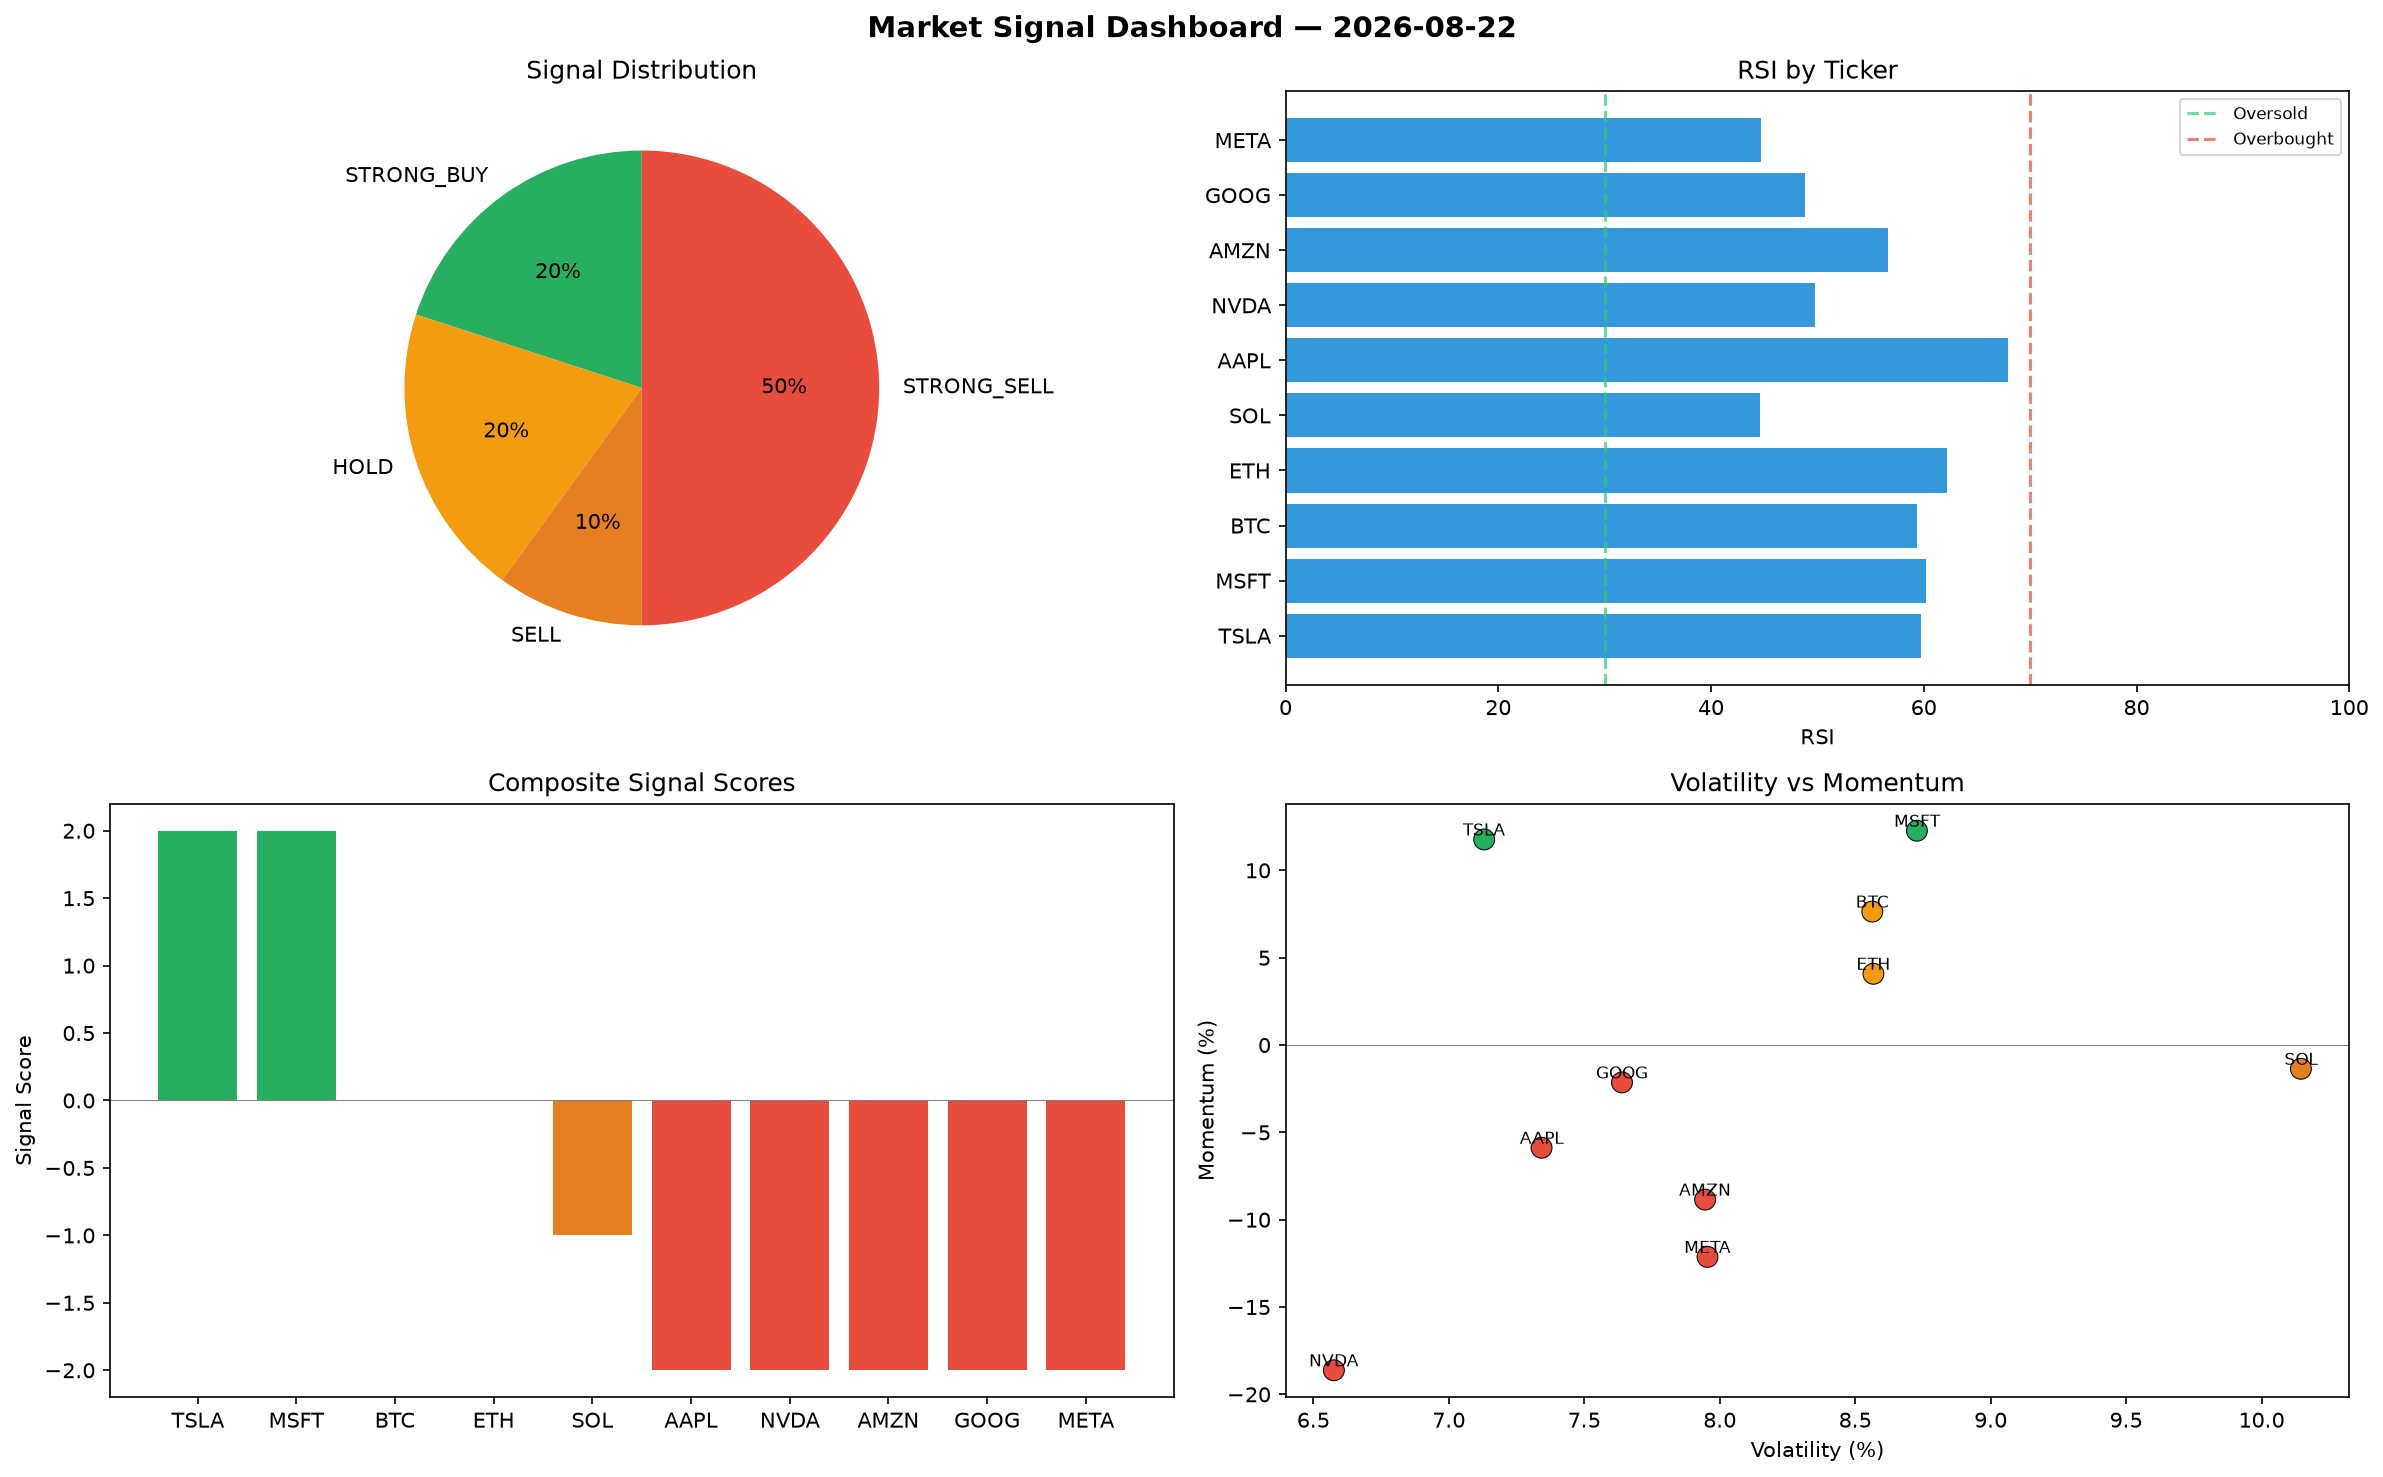
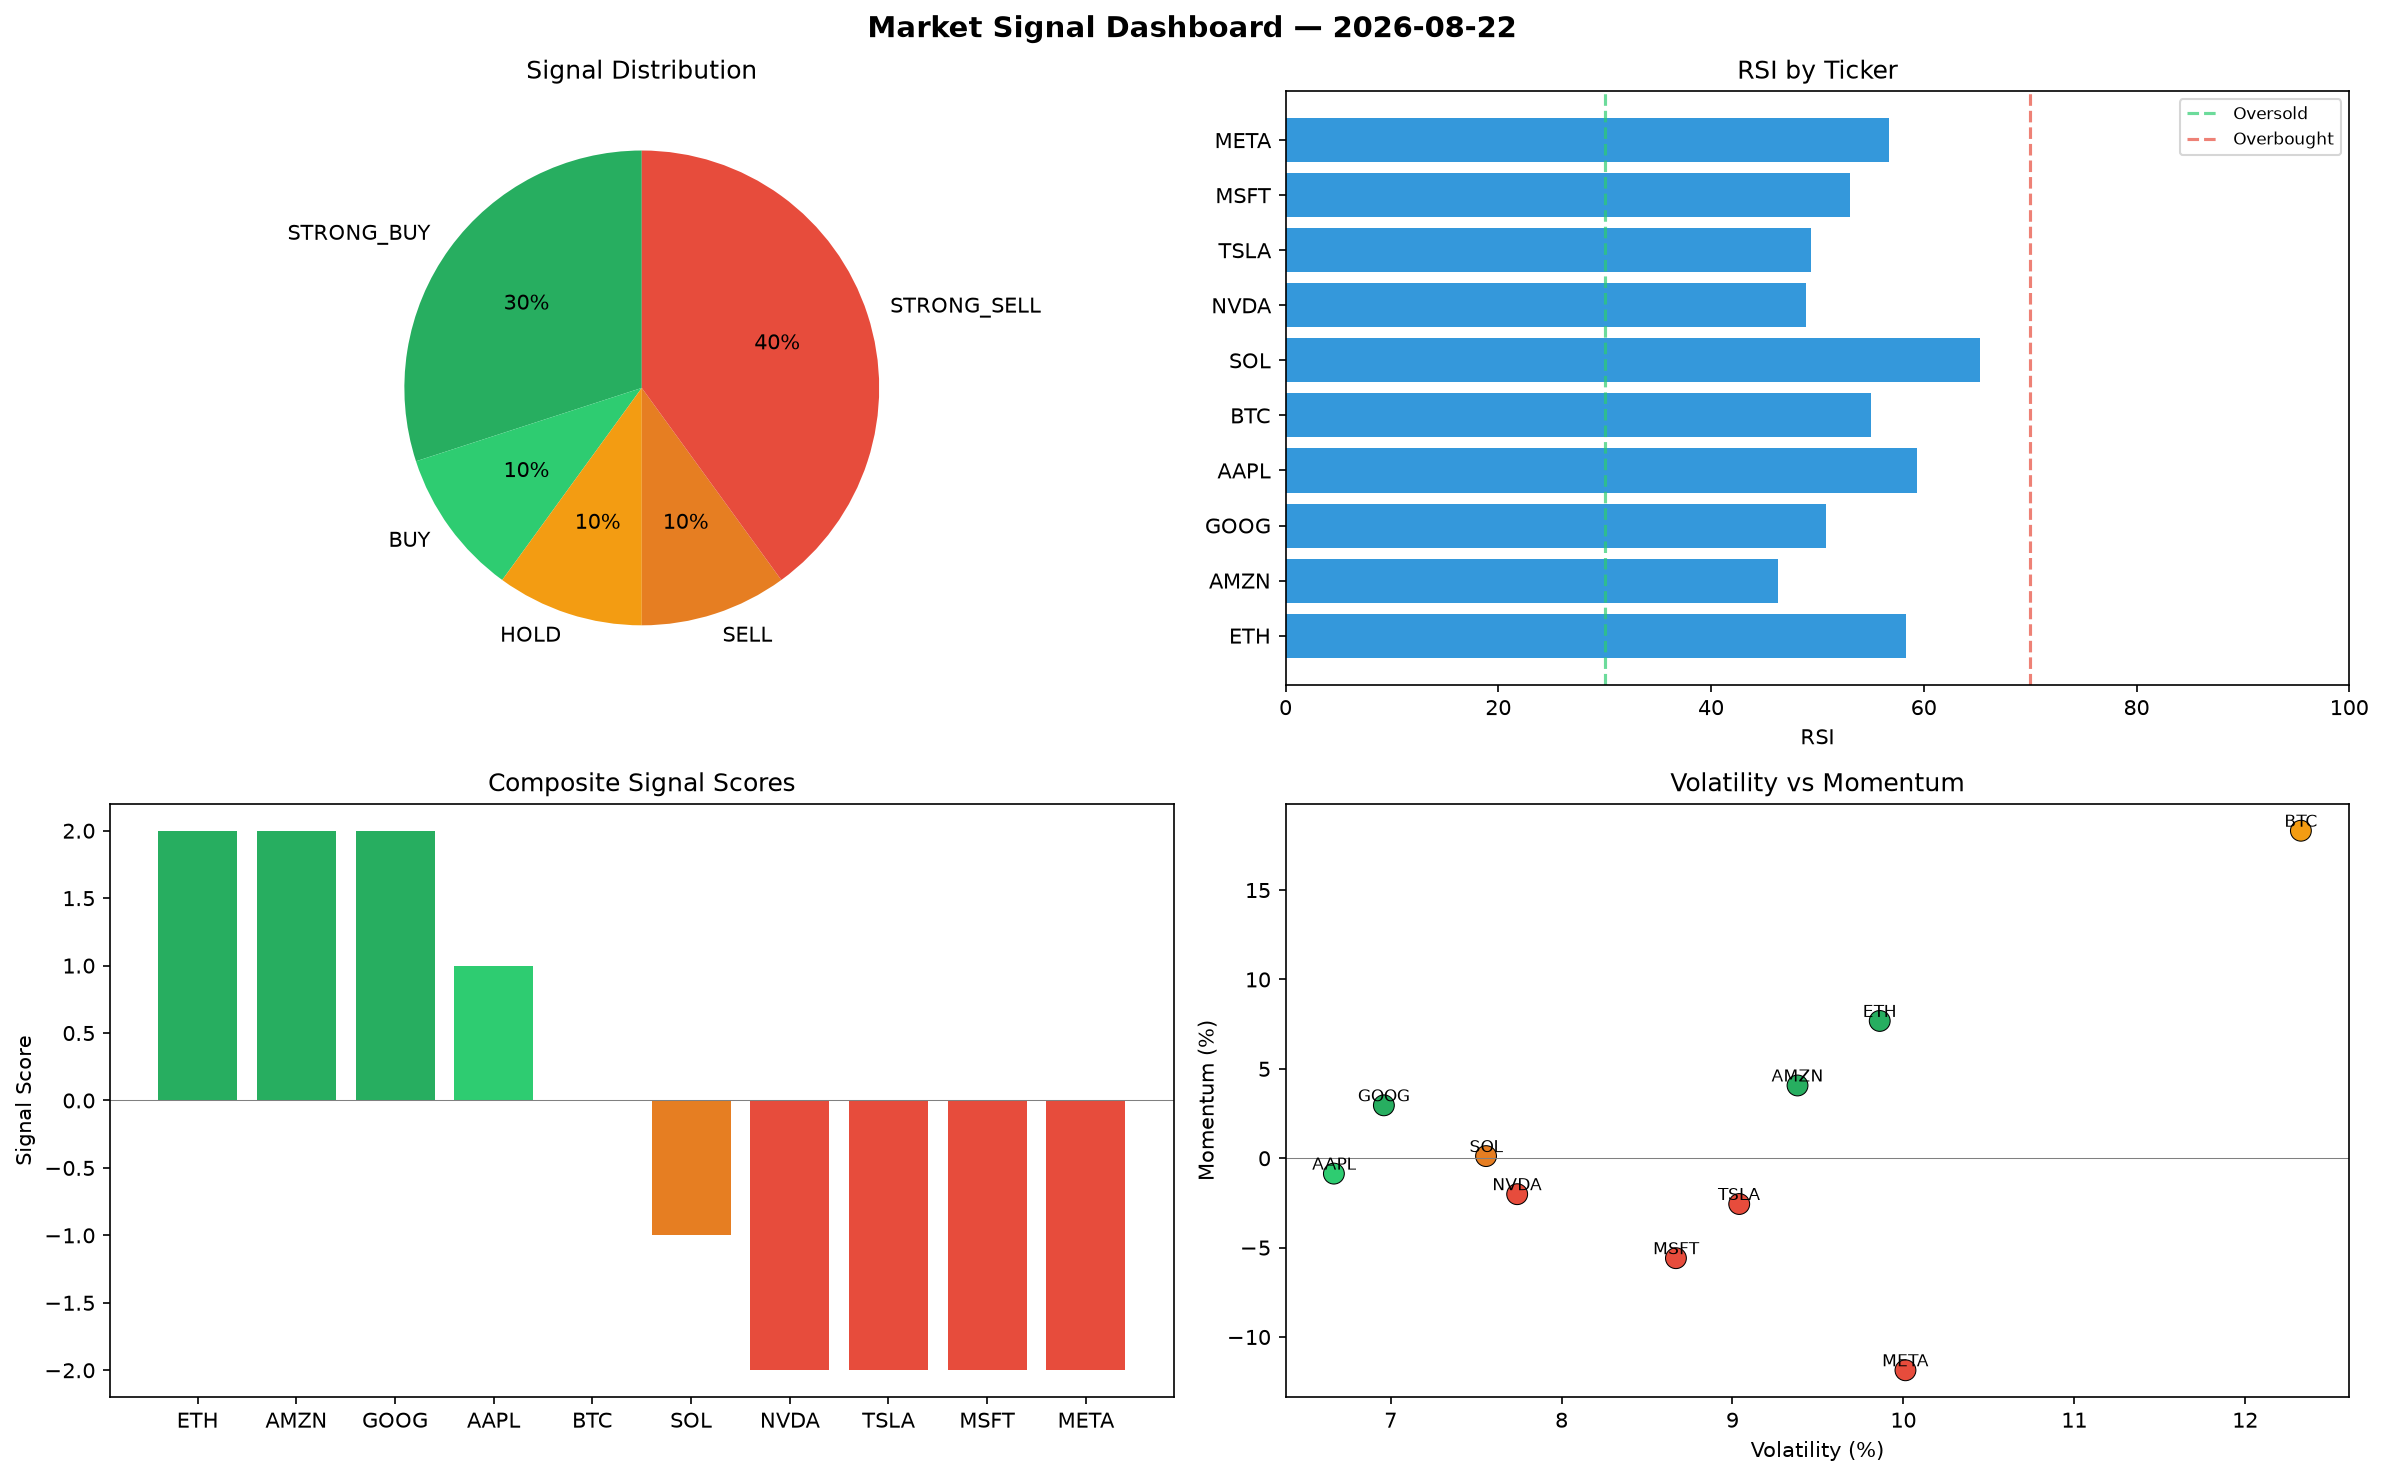
automated-bots: market signals 2026-08-22T20:44

diff --git a/logs/2026-08-22.md b/logs/2026-08-22.md
@@ -1,6 +1,6 @@
 # Market Signal Report — 2026-08-22
 
-**Run ID:** `0d50309e39` | **Buy:** 2 | **Sell:** 6 | **Hold:** 2
+**Run ID:** `3d318788b2` | **Buy:** 4 | **Sell:** 5 | **Hold:** 1
 
 ![Dashboard](2026-08-22_dashboard.png)
 
@@ -8,28 +8,28 @@
 
 | Ticker | Price | Signal | Score | RSI | Momentum | Confidence |
 |--------|-------|--------|-------|-----|----------|------------|
-| TSLA | $65.26 | **STRONG_BUY** | 2 | 59.72 | 0.1177 | 0.5 |
-| MSFT | $938.9 | **STRONG_BUY** | 2 | 60.23 | 0.1227 | 0.5 |
-| BTC | $2962.13 | **HOLD** | 0 | 59.35 | 0.0764 | 0.0 |
-| ETH | $2800.53 | **HOLD** | 0 | 62.16 | 0.0408 | 0.0 |
-| SOL | $3371.0 | **SELL** | -1 | 44.6 | -0.0136 | 0.25 |
-| AAPL | $4884.63 | **STRONG_SELL** | -2 | 67.95 | -0.0588 | 0.5 |
-| NVDA | $3945.36 | **STRONG_SELL** | -2 | 49.79 | -0.1862 | 0.5 |
-| AMZN | $672.08 | **STRONG_SELL** | -2 | 56.6 | -0.0885 | 0.5 |
-| GOOG | $1043.37 | **STRONG_SELL** | -2 | 48.85 | -0.0214 | 0.5 |
-| META | $1181.49 | **STRONG_SELL** | -2 | 44.71 | -0.1213 | 0.5 |
+| ETH | $257.04 | **STRONG_BUY** | 2 | 58.31 | 0.0768 | 0.5 |
+| AMZN | $778.99 | **STRONG_BUY** | 2 | 46.33 | 0.0407 | 0.5 |
+| GOOG | $662.23 | **STRONG_BUY** | 2 | 50.82 | 0.0296 | 0.5 |
+| AAPL | $2998.17 | **BUY** | 1 | 59.4 | -0.0086 | 0.25 |
+| BTC | $2844.08 | **HOLD** | 0 | 55.04 | 0.1832 | 0.0 |
+| SOL | $975.59 | **SELL** | -1 | 65.24 | 0.0012 | 0.25 |
+| NVDA | $2110.77 | **STRONG_SELL** | -2 | 48.94 | -0.0201 | 0.5 |
+| TSLA | $2607.57 | **STRONG_SELL** | -2 | 49.41 | -0.0256 | 0.5 |
+| MSFT | $3854.22 | **STRONG_SELL** | -2 | 53.07 | -0.0559 | 0.5 |
+| META | $3396.31 | **STRONG_SELL** | -2 | 56.75 | -0.1186 | 0.5 |
 
 ## Delta vs Yesterday
 
 | Ticker | Today | Yesterday | Price Change | Signal Changed |
 |--------|-------|-----------|-------------|----------------|
-| TSLA | STRONG_BUY | STRONG_SELL | 📉 -95.18% | ⚠ YES |
-| MSFT | STRONG_BUY | STRONG_SELL | 📉 -59.17% | ⚠ YES |
-| BTC | HOLD | STRONG_SELL | 📈 178.79% | ⚠ YES |
-| ETH | HOLD | HOLD | 📈 973.0% | — |
-| SOL | SELL | STRONG_BUY | 📉 -34.24% | ⚠ YES |
-| AAPL | STRONG_SELL | STRONG_SELL | 📈 18.92% | — |
-| NVDA | STRONG_SELL | HOLD | 📉 -11.33% | ⚠ YES |
-| AMZN | STRONG_SELL | HOLD | 📉 -78.06% | ⚠ YES |
-| GOOG | STRONG_SELL | BUY | 📉 -61.11% | ⚠ YES |
-| META | STRONG_SELL | HOLD | 📉 -74.92% | ⚠ YES |
+| ETH | STRONG_BUY | HOLD | 📉 -1.52% | ⚠ YES |
+| AMZN | STRONG_BUY | HOLD | 📉 -74.57% | ⚠ YES |
+| GOOG | STRONG_BUY | BUY | 📉 -75.32% | ⚠ YES |
+| AAPL | BUY | STRONG_SELL | 📉 -27.01% | ⚠ YES |
+| BTC | HOLD | STRONG_SELL | 📈 167.68% | ⚠ YES |
+| SOL | SELL | STRONG_BUY | 📉 -80.97% | ⚠ YES |
+| NVDA | STRONG_SELL | HOLD | 📉 -52.56% | ⚠ YES |
+| TSLA | STRONG_SELL | STRONG_SELL | 📈 92.72% | — |
+| MSFT | STRONG_SELL | STRONG_SELL | 📈 67.61% | — |
+| META | STRONG_SELL | HOLD | 📉 -27.89% | ⚠ YES |
